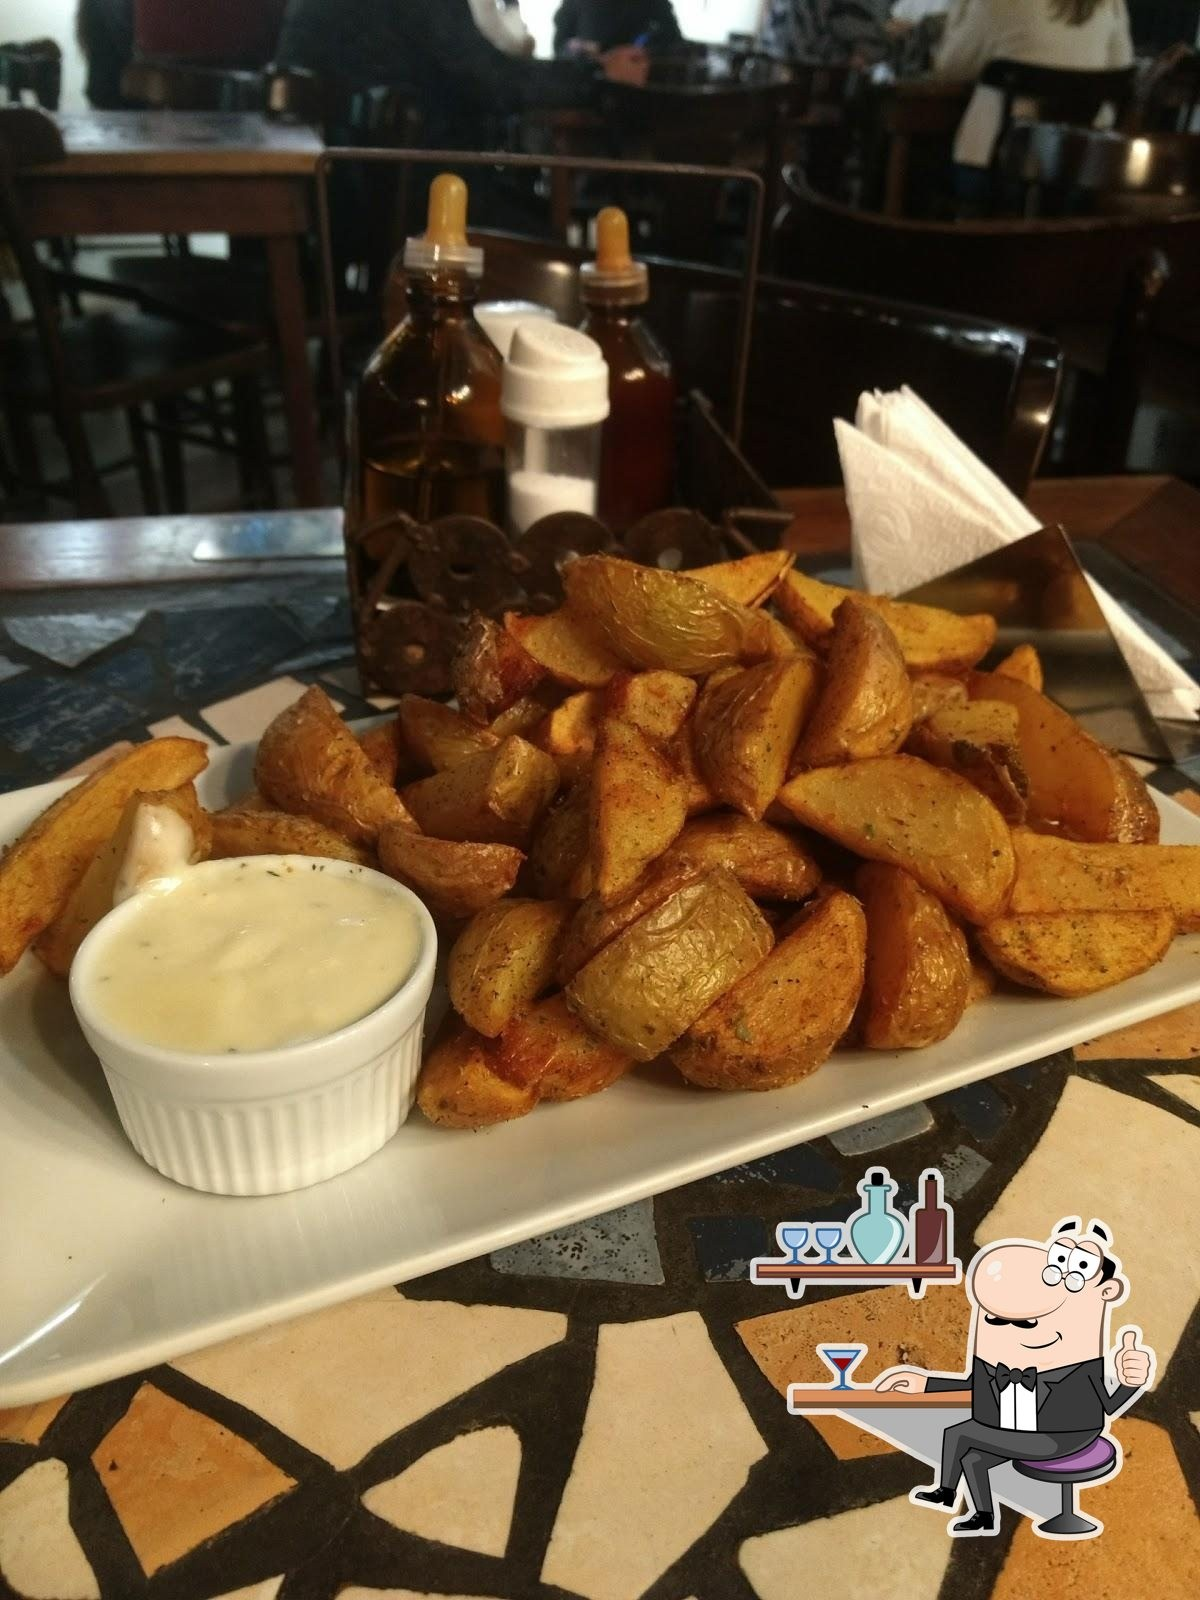
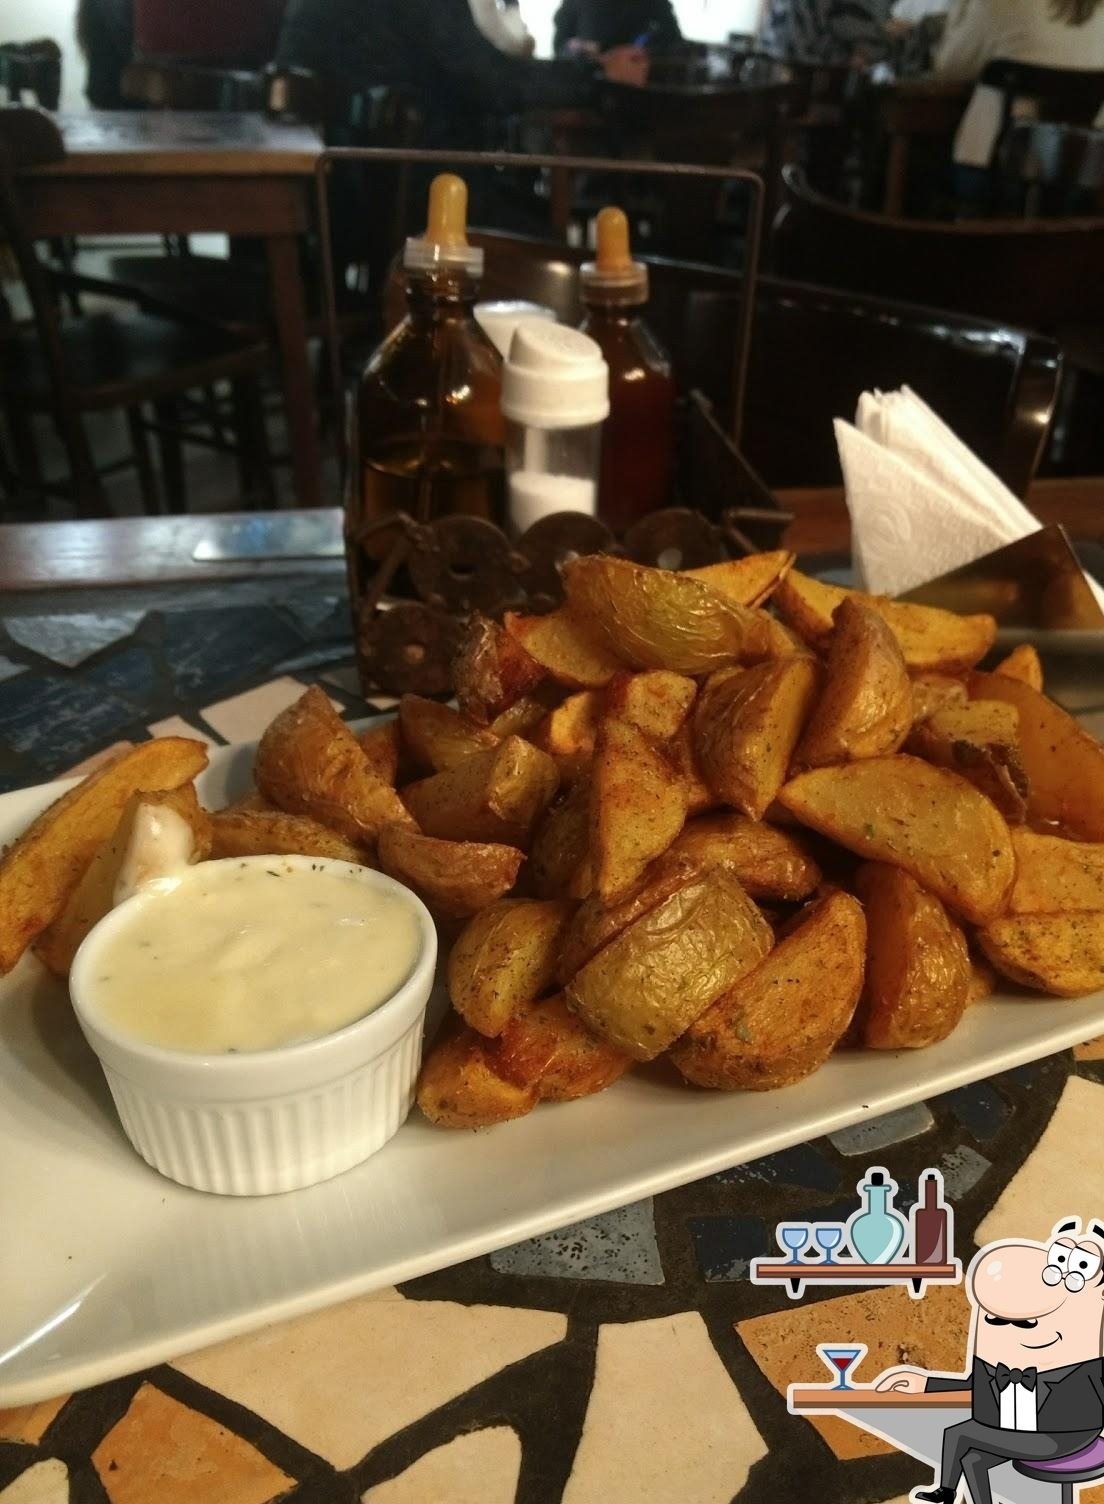
Ajusta o hero para a mesa de mosaico aparecer de verdade.
Clareia o degradê e recorta o selo de diretório da foto da casa.

diff --git a/demos/pinacoteca-cafe/src/components/sections/Hero.tsx b/demos/pinacoteca-cafe/src/components/sections/Hero.tsx
@@ -18,7 +18,7 @@ export function Hero() {
         className="absolute inset-0"
         style={{
           background:
-            "linear-gradient(180deg, rgba(20,8,12,0.28) 0%, rgba(20,8,12,0.18) 32%, rgba(20,8,12,0.92) 100%)",
+            "linear-gradient(180deg, rgba(20,8,12,0.12) 0%, rgba(20,8,12,0.22) 42%, rgba(20,8,12,0.72) 100%)",
         }}
       />
       <div className="relative z-10 mx-auto w-full max-w-6xl px-4 pb-16 pt-32 md:px-6 md:pb-20">
